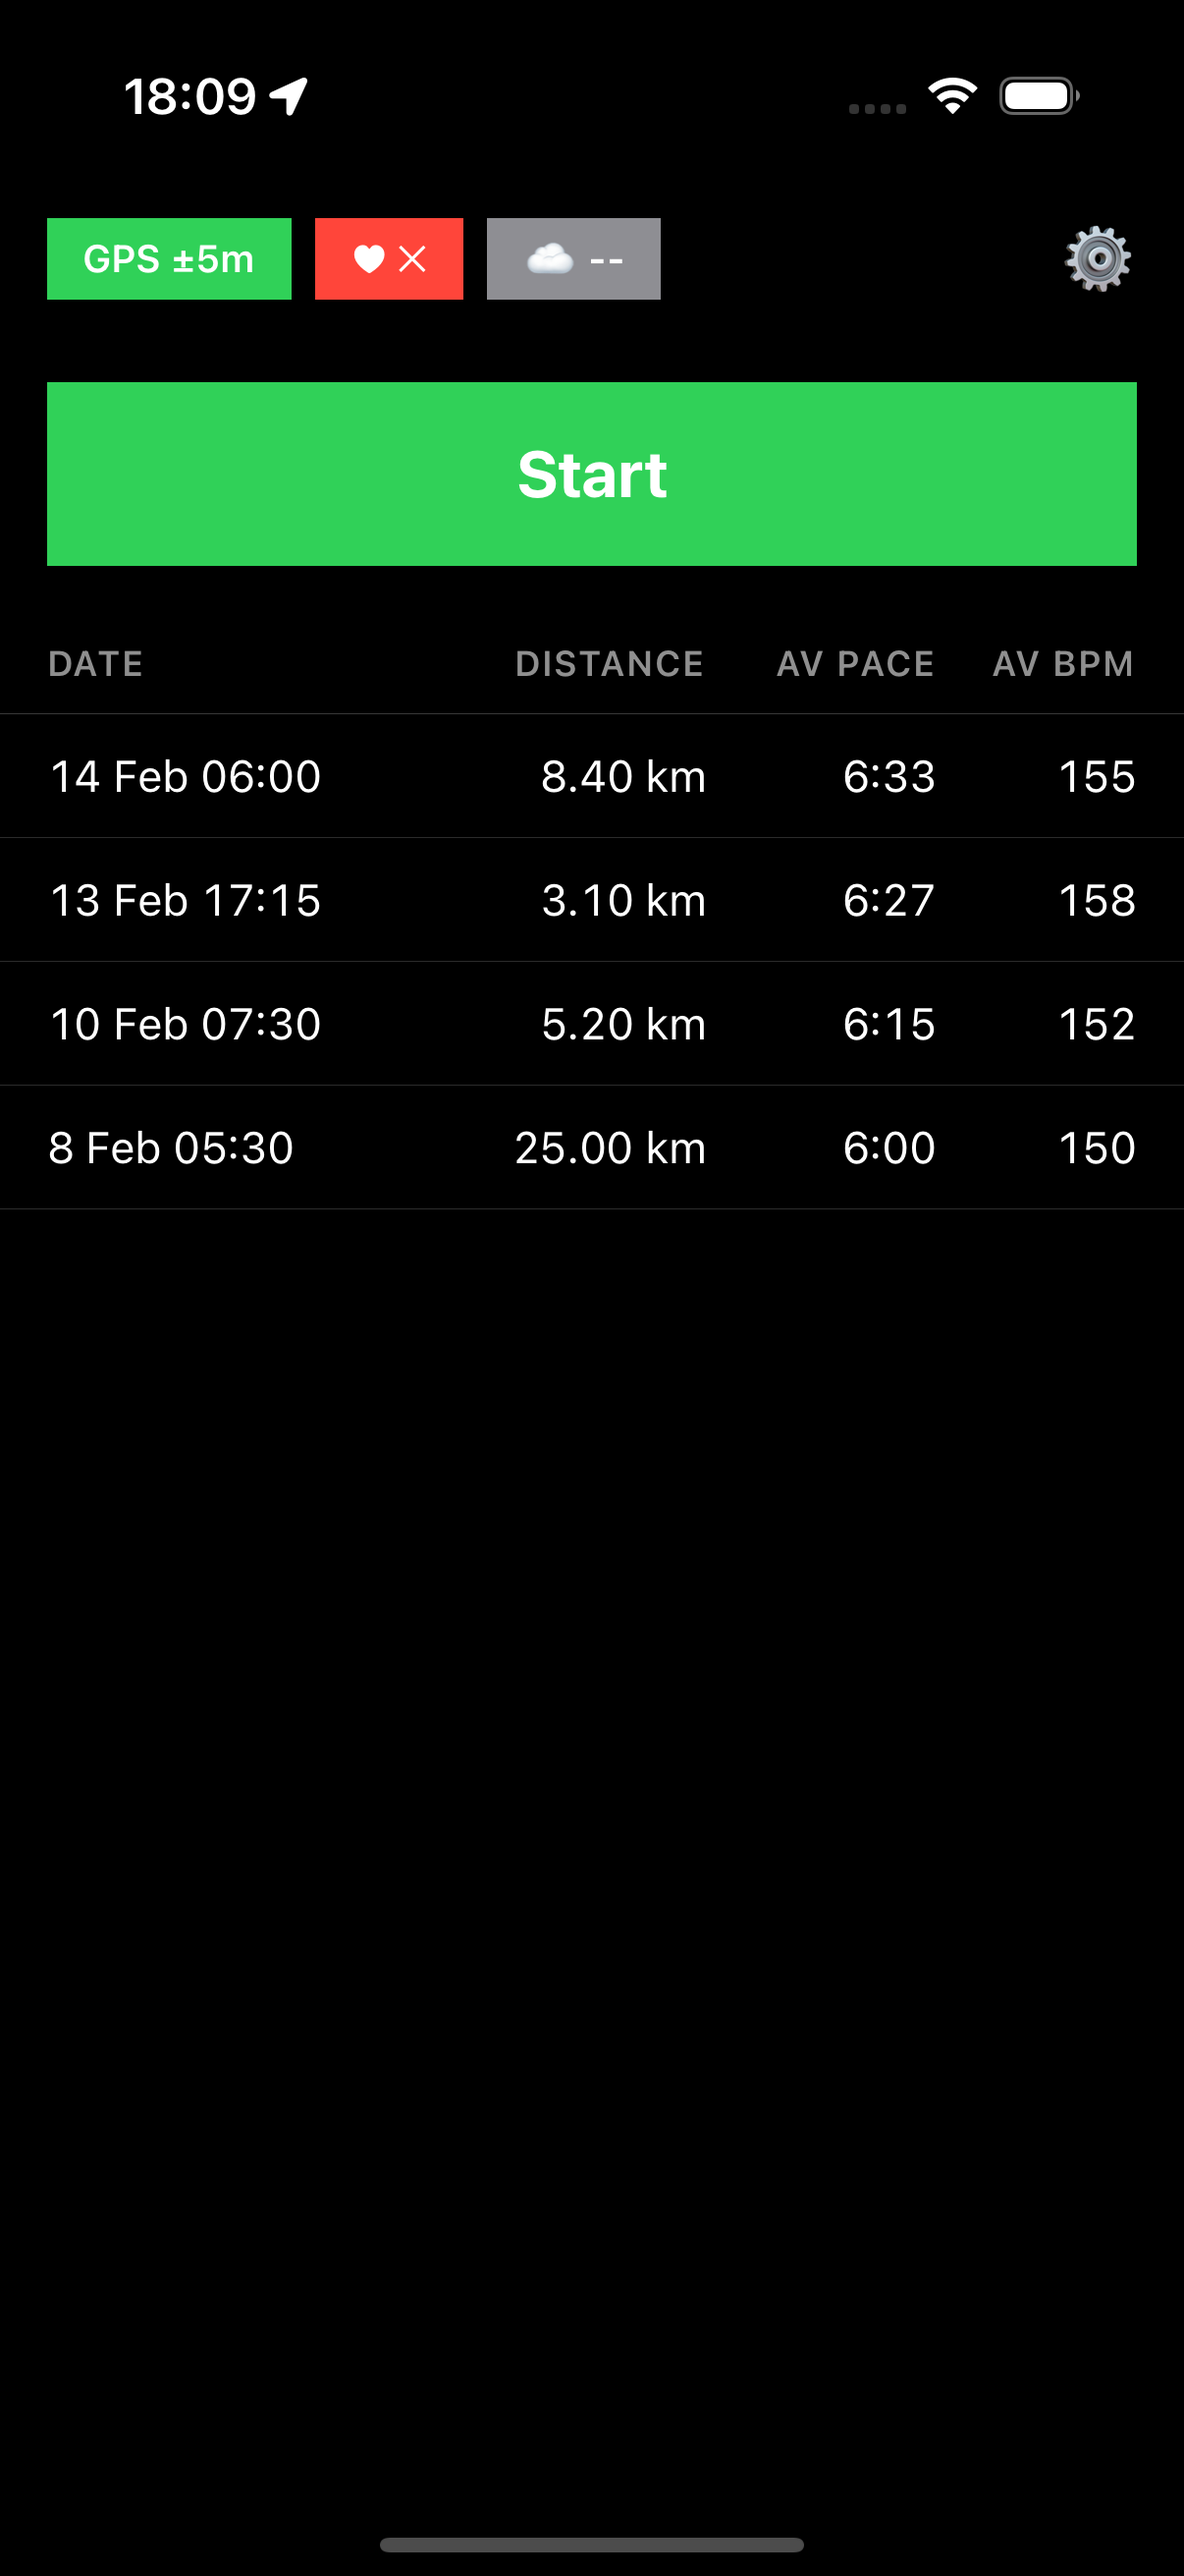
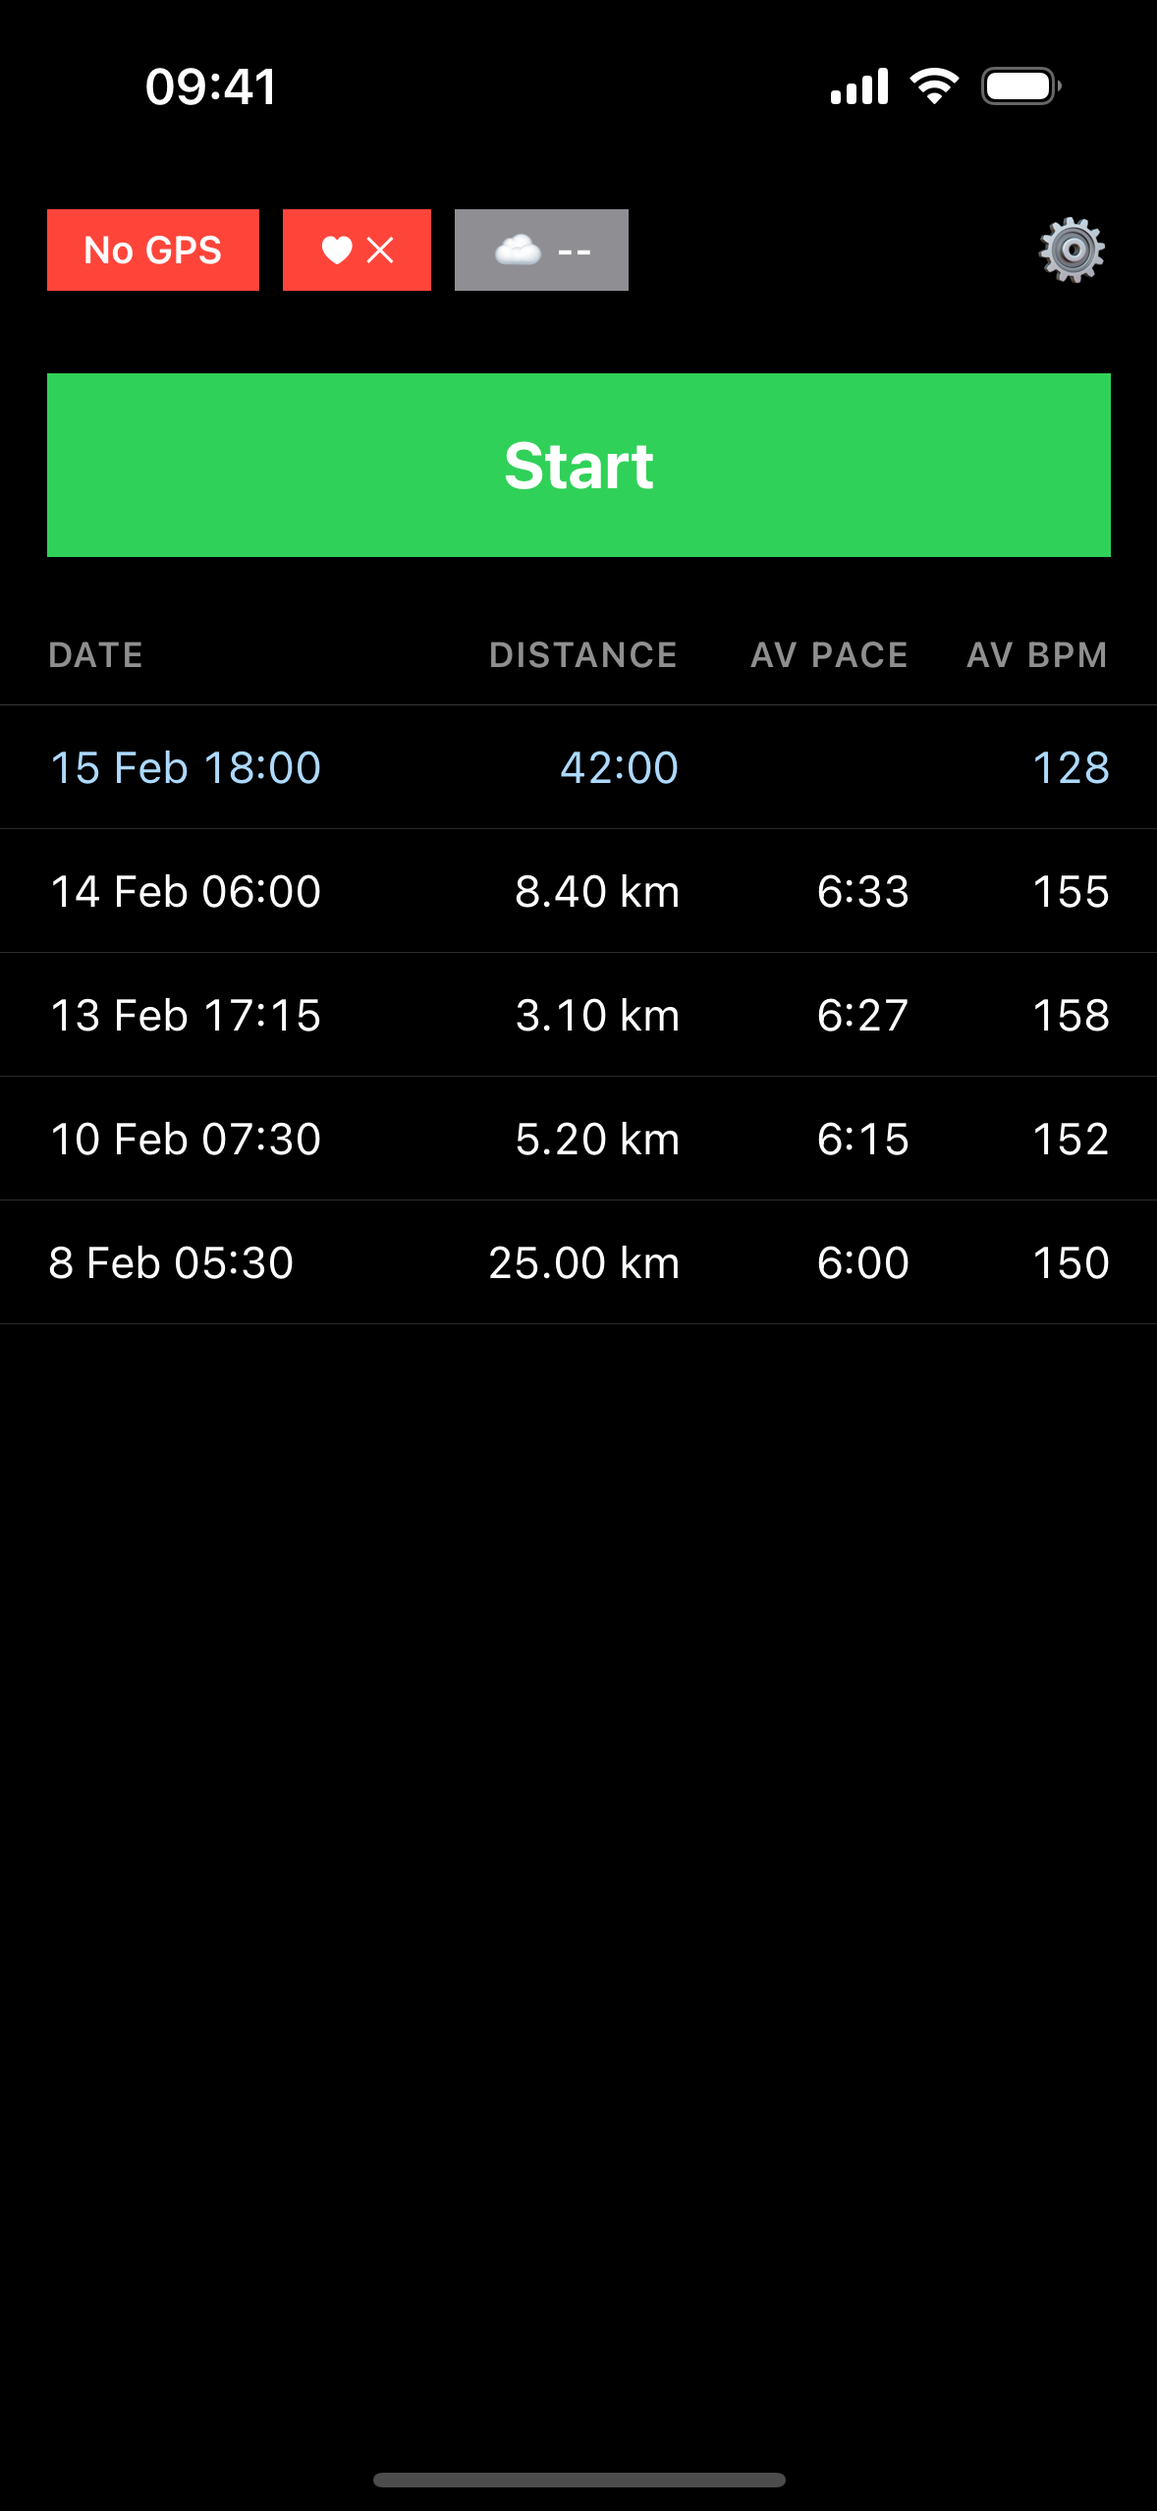
Update screenshots and add stationary workout to seed data

diff --git a/HardWayHome/Database/SeedData.swift b/HardWayHome/Database/SeedData.swift
@@ -47,6 +47,11 @@ extension AppDatabase {
             startLat: 51.4950, startLng: -0.1000,
             bearingDeg: 200, intervalSec: 2,
             baseBpm: 145)
+
+        try insertStationaryWorkout(
+            startedAt: epoch("2026-02-15T18:00:00Z"),
+            finishedAt: epoch("2026-02-15T18:42:00Z"),
+            avgBpm: 128, baseBpm: 90)
     }
 
     private func insertSampleWorkout(
@@ -91,6 +96,48 @@ extension AppDatabase {
             for i in 0..<totalPulses {
                 let bpm = baseBpm + Int.random(in: -10...15)
                 let t = startedAt + Double(i)
+
+                try db.execute(sql: """
+                    INSERT INTO pulses (workout_id, created_at, bpm)
+                    VALUES (?, ?, ?)
+                    """, arguments: [workoutId, t, bpm])
+            }
+        }
+    }
+
+    private func insertStationaryWorkout(
+        startedAt: TimeInterval, finishedAt: TimeInterval,
+        avgBpm: Double, baseBpm: Int
+    ) throws {
+        let workoutId = try dbWriter.write { db -> Int64 in
+            try db.execute(sql: """
+                INSERT INTO workouts (started_at, finished_at, distance, avg_sec_per_km, avg_bpm)
+                VALUES (?, ?, 0, NULL, ?)
+                """, arguments: [startedAt, finishedAt, avgBpm])
+            return db.lastInsertedRowID
+        }
+
+        let totalDuration = finishedAt - startedAt
+        let totalPulses = Int(totalDuration)
+
+        try dbWriter.write { db in
+            for i in 0..<totalPulses {
+                let t = startedAt + Double(i)
+                let progress = Double(i) / Double(totalPulses)
+
+                // Simulate warmup -> peak -> cooldown curve
+                let curve: Int
+                if progress < 0.15 {
+                    let ramp = progress / 0.15
+                    curve = baseBpm + Int(Double(baseBpm) * 0.5 * ramp)
+                } else if progress > 0.85 {
+                    let ramp = (1.0 - progress) / 0.15
+                    curve = baseBpm + Int(Double(baseBpm) * 0.5 * ramp)
+                } else {
+                    curve = baseBpm + Int(Double(baseBpm) * 0.5)
+                }
+
+                let bpm = max(40, min(200, curve + Int.random(in: -8...8)))
 
                 try db.execute(sql: """
                     INSERT INTO pulses (workout_id, created_at, bpm)

diff --git a/HardWayHome/Views/SettingsView.swift b/HardWayHome/Views/SettingsView.swift
@@ -153,7 +153,7 @@ struct SettingsView: View {
                             .padding(.top, 8)
                     }
 
-                    Text("Replaces all existing workouts with 4 sample runs (3k, 5k, 8k, 25k).")
+                    Text("Replaces all existing workouts with 4 sample runs (3k, 5k, 8k, 25k) and 1 stationary workout.")
                         .font(.system(size: 13))
                         .foregroundStyle(Color(white: 0.56))
                         .lineSpacing(4)

diff --git a/README.md b/README.md
@@ -33,6 +33,7 @@ A lightweight exercise tracker for iOS
 <img src="assets/screenshots/home.png" width="200" alt="Home screen" />
 <img src="assets/screenshots/workout.png" width="200" alt="Workout in progress" />
 <img src="assets/screenshots/workout-detail.png" width="200" alt="Workout detail with splits and map" />
+<img src="assets/screenshots/stationary-detail.png" width="200" alt="Stationary workout with heart rate graph" />
 <img src="assets/screenshots/settings.png" width="200" alt="Settings screen" />
 </p>
 
